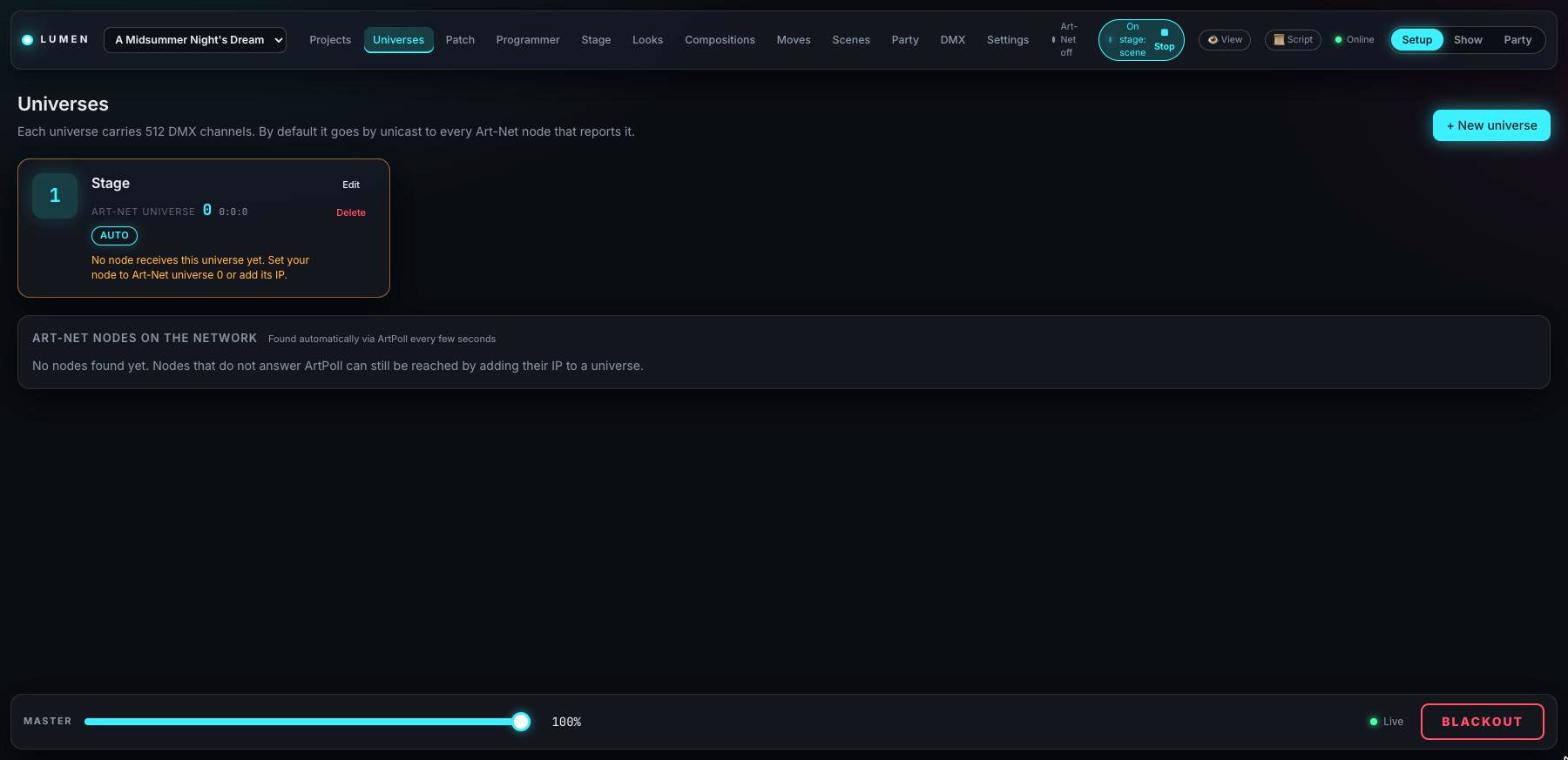
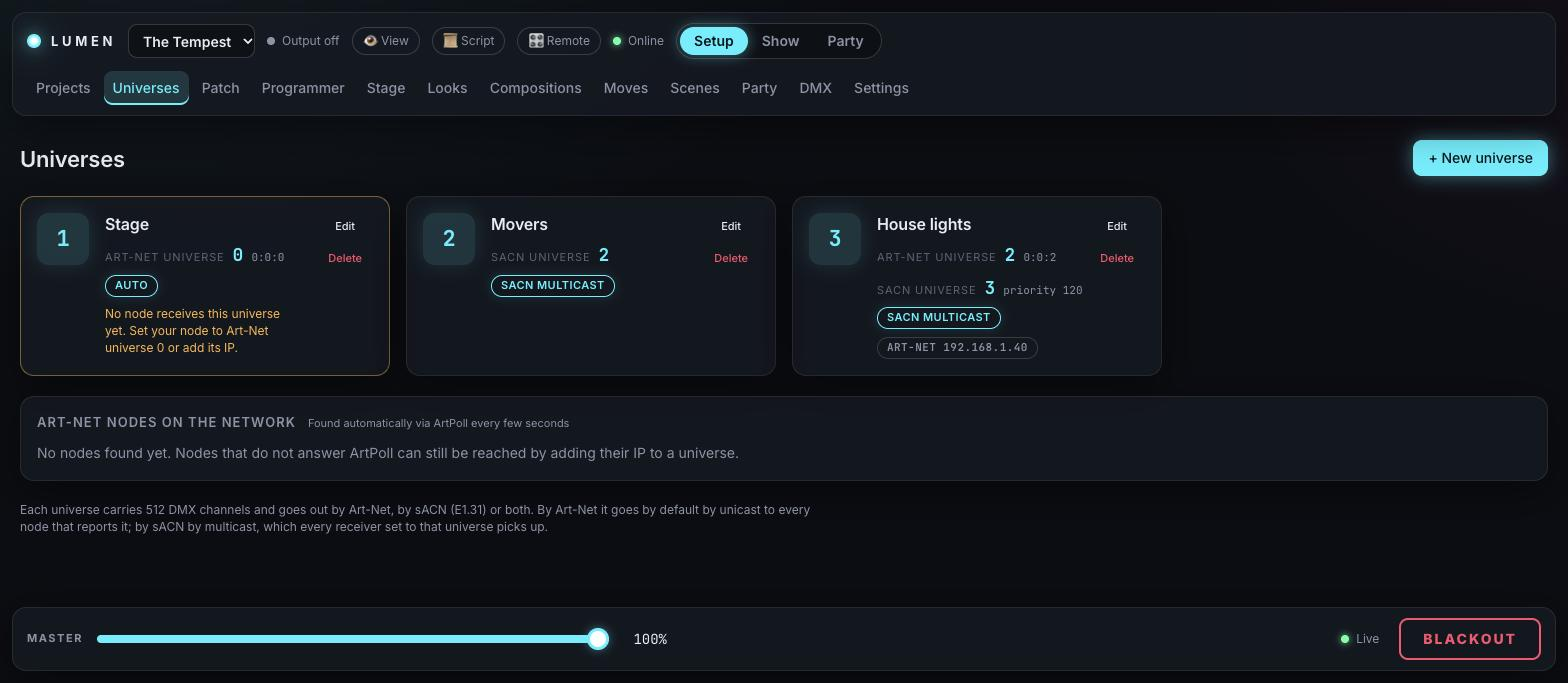
Guide: sACN output next to Art-Net, new universe screenshots

diff --git a/index.html b/index.html
@@ -4,7 +4,7 @@
 <meta charset="utf-8">
 <meta name="viewport" content="width=device-width, initial-scale=1">
 <title>Lumen User Guide</title>
-<meta name="description" content="How to set up and run a theatre show with Lumen, the DMX/Art-Net lighting control in your browser.">
+<meta name="description" content="How to set up and run a theatre show with Lumen, the DMX lighting control (Art-Net and sACN) in your browser.">
 <style>
   :root {
     --bg: #0b0d12;
@@ -458,7 +458,7 @@
     <div class="group">Setup</div>
     <ol>
       <li><a href="#projects">Projects</a></li>
-      <li><a href="#universes">Universes &amp; Art-Net</a></li>
+      <li><a href="#universes">Universes, Art-Net &amp; sACN</a></li>
       <li><a href="#patch">Patch</a></li>
       <li><a href="#stage">Stage</a></li>
       <li><a href="#programmer">Programmer</a></li>
@@ -486,7 +486,7 @@
       <h1>Lumen user guide</h1>
       <p class="lead">Lumen is a lighting control for theatre that runs in your browser. You patch your fixtures, build
         scenes, write the script next to them – and during the performance you just press <strong>GO</strong>.
-        Lumen sends DMX over Art-Net to your nodes.</p>
+        Lumen sends DMX over Art-Net or sACN to your nodes.</p>
       <div class="buttons">
         <a class="button primary" href="#install">Get started</a>
         <a class="button" href="downloads/midsummer-demo.lumen.json" download>⇣ Demo project</a>
@@ -524,7 +524,7 @@
 cd lumen-ArtNet
 ./build.sh          # build with all tests (--fast skips them)
 ./run.sh            # start, then open http://127.0.0.1:8080
-./run.sh --test     # try-out mode: Art-Net off, separate database data/test.db</code></pre>
+./run.sh --test     # try-out mode: Art-Net and sACN off, separate database data/test.db</code></pre>
     <p>With <code>run.sh</code> the data lives in <code>data/</code> in the project folder.</p>
 
     <div class="callout" id="demo">
@@ -545,7 +545,7 @@ cd lumen-ArtNet
       <tr><th>Element</th><th>What it does</th></tr>
       <tr><td>Project selector</td><td>Switches the active project – the one that drives the light.</td></tr>
       <tr><td>Tabs</td><td>Projects · Universes · Patch · Programmer · Stage · Looks · Compositions · Moves · Scenes · Party · DMX · Settings. Only visible in setup mode.</td></tr>
-      <tr><td>Art-Net</td><td>Packets per second sent right now. Grey "Art-Net off" in try-out mode, yellow/red on send problems.</td></tr>
+      <tr><td>DMX</td><td>Art-Net and sACN packets per second sent right now. Grey "Output off" in try-out mode, yellow/red on send problems.</td></tr>
       <tr><td>Nodes</td><td>"Nodes 2/2" – how many expected Art-Net nodes answer. Red when one is missing; click for details.</td></tr>
       <tr><td>On stage</td><td>Appears while a look, composition, move or scene is shown on stage for trying out. <strong>Stop</strong> ends it.</td></tr>
       <tr><td>👁 View · 📜 Script</td><td>The <a href="#view">view-only pages</a> for phones and tablets.</td></tr>
@@ -589,24 +589,65 @@ cd lumen-ArtNet
     </ul>
 
     <!-- ───────────────────────────────────────────── -->
-    <h2 id="universes"><span class="num">05</span>Universes &amp; Art-Net</h2>
+    <h2 id="universes"><span class="num">05</span>Universes, Art-Net &amp; sACN</h2>
     <figure>
-      <img src="images/universes.jpg" width="1568" height="760" alt="Universes tab with universe 1 Stage in auto mode and the list of Art-Net nodes" loading="lazy">
-      <figcaption>Universe 1 in <strong>Auto</strong> mode. The hint says no node reports this universe yet.</figcaption>
+      <img src="images/universes.jpg" width="1568" height="683" alt="Universes tab with three universes: Stage by Art-Net in auto mode, Movers by sACN multicast, House lights by both protocols with sACN priority 120" loading="lazy">
+      <figcaption>Stage goes out by <strong>Art-Net</strong> (the hint says no node reports it yet), Movers by
+        <strong>sACN</strong> multicast, House lights by <strong>both</strong>.</figcaption>
     </figure>
-    <p>A universe carries 512 DMX channels. Create one per DMX line of your nodes and set its <strong>Art-Net
-      universe</strong> (net:subnet:universe) to match the node.</p>
+    <p>A universe carries 512 DMX channels. Create one per DMX line of your nodes and choose its
+      <strong>protocol</strong> – whatever your nodes and dimmers understand:</p>
+    <ul>
+      <li><strong>Art-Net</strong> (default) – most DIY and budget nodes, e.g. ESP-based dimmers.</li>
+      <li><strong>sACN</strong> (E1.31, streaming ACN) – common on professional nodes, dimmer racks and LED
+        fixtures with a network port.</li>
+      <li><strong>Both</strong> sends the universe twice, e.g. while part of the rig still uses Art-Net. Make sure
+        a device listens to only one of them.</li>
+    </ul>
+    <p>When you switch the protocol, the settings of the other one are kept – switching back restores them.</p>
+    <div class="pair">
+      <figure>
+        <img src="images/universe-artnet.jpg" width="485" height="830" alt="Edit universe dialog with protocol Art-Net: Art-Net universe 0, network all networks, send Art-Net to Auto" loading="lazy">
+        <figcaption>Art-Net: the port address and where the packets go.</figcaption>
+      </figure>
+      <figure>
+        <img src="images/universe-sacn.jpg" width="485" height="810" alt="Edit universe dialog with protocol sACN: sACN universe 2, priority 100, send sACN to multicast group 239.255.0.2" loading="lazy">
+        <figcaption>sACN: universe, priority and multicast or fixed IPs.</figcaption>
+      </figure>
+    </div>
+
+    <h3>Art-Net</h3>
+    <p>Set the <strong>Art-Net universe</strong> (net:subnet:universe) to match the node. Art-Net counts from 0.</p>
     <ul>
       <li><strong>Auto</strong> (default): Lumen asks the network every few seconds which nodes exist (ArtPoll) and
         sends each universe by unicast to exactly the nodes that report it. Usually you enter no IP at all.</li>
       <li><strong>Manual IPs</strong> for nodes that do not answer ArtPoll – they can be combined with Auto.</li>
       <li><strong>Broadcast</strong> sends to everybody. It works, but is unreliable over Wi-Fi.</li>
-      <li><strong>Network interface</strong>: with several networks (e.g. Wi-Fi and a USB Ethernet adapter) pick the
-        one the nodes are in.</li>
     </ul>
-    <p>Below the universes, Lumen lists every node it found with name, IP and the universes it reports. Once a node
-      has answered, Lumen <em>expects</em> it: if it disappears – even before the show starts – the header turns
+    <p>Below the universes, Lumen lists every Art-Net node it found with name, IP and the universes it reports. Once a
+      node has answered, Lumen <em>expects</em> it: if it disappears – even before the show starts – the header turns
       red and show mode shows a warning.</p>
+
+    <h3>sACN</h3>
+    <p>Set the <strong>sACN universe</strong> to the one your receiver listens on. sACN counts from 1; a new universe
+      suggests its number in Lumen.</p>
+    <ul>
+      <li><strong>Multicast</strong> (default): every receiver on the network that is set to this universe picks it
+        up – no IP addresses needed. Lumen sends to the multicast group of the universe, e.g.
+        <code>239.255.0.2</code> for universe 2.</li>
+      <li><strong>Fixed IPs</strong>: only to the addresses you enter – useful over Wi-Fi, where multicast is often
+        unreliable, or when a switch filters multicast.</li>
+      <li><strong>Priority</strong> (0–200, usually 100): a receiver that gets the same universe from several
+        consoles takes the one with the highest priority – e.g. 120 so Lumen wins over a backup desk.</li>
+    </ul>
+    <p>sACN has no node list: receivers do not report themselves like Art-Net nodes, so Lumen cannot warn when one is
+      missing. Lumen does announce its universes every 10 s (universe discovery, shown by tools such as sACNView) and
+      tells the receivers when it stops.</p>
+
+    <h3>Network</h3>
+    <p>With several networks (e.g. Wi-Fi and a USB Ethernet adapter) pick the <strong>network interface</strong> the
+      nodes are in – for both protocols. The universe then goes out only there, and not at all while the adapter is
+      unplugged. With "All networks", sACN multicast goes out on every network of the computer.</p>
 
     <!-- ───────────────────────────────────────────── -->
     <h2 id="patch"><span class="num">06</span>Patch</h2>
@@ -1024,9 +1065,13 @@ cd lumen-ArtNet
 
     <h3>The stage view glows but the real light stays dark</h3>
     <ul>
-      <li>Does the header say <strong>Art-Net off</strong>? Then Lumen runs in try-out mode (<code>run.sh --test</code>).</li>
-      <li>Open <strong>Universes</strong>: is your node listed, and does it report the same Art-Net universe? A yellow
-        hint under the universe tells you when no node receives it.</li>
+      <li>Does the header say <strong>Output off</strong>? Then Lumen runs in try-out mode (<code>run.sh --test</code>)
+        and sends neither Art-Net nor sACN.</li>
+      <li>Does the universe use the protocol your node speaks (Art-Net or sACN)?</li>
+      <li>Art-Net: open <strong>Universes</strong>: is your node listed, and does it report the same Art-Net universe?
+        A yellow hint under the universe tells you when no node receives it.</li>
+      <li>sACN: is the receiver set to the same sACN universe (counted from 1)? Over Wi-Fi, or if the switch filters
+        multicast, enter the receiver's IP under <strong>Fixed IPs</strong>.</li>
       <li>Nodes that do not answer ArtPoll need their IP entered on the universe.</li>
       <li>With several networks, pick the right <strong>network interface</strong> on the universe.</li>
       <li>Check the fixture's DMX address and mode against the patch, and that master is up and blackout is off.</li>
